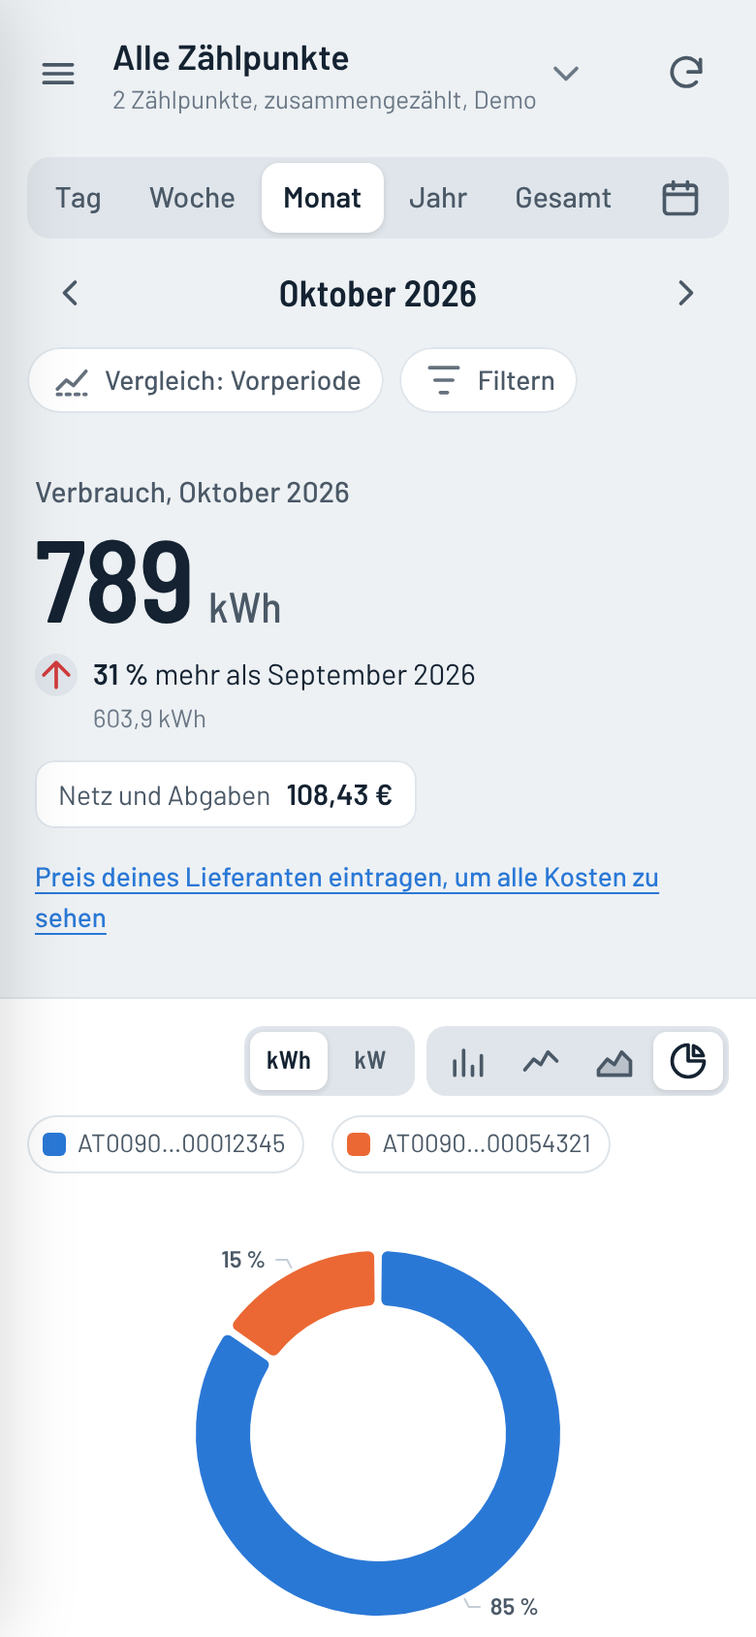
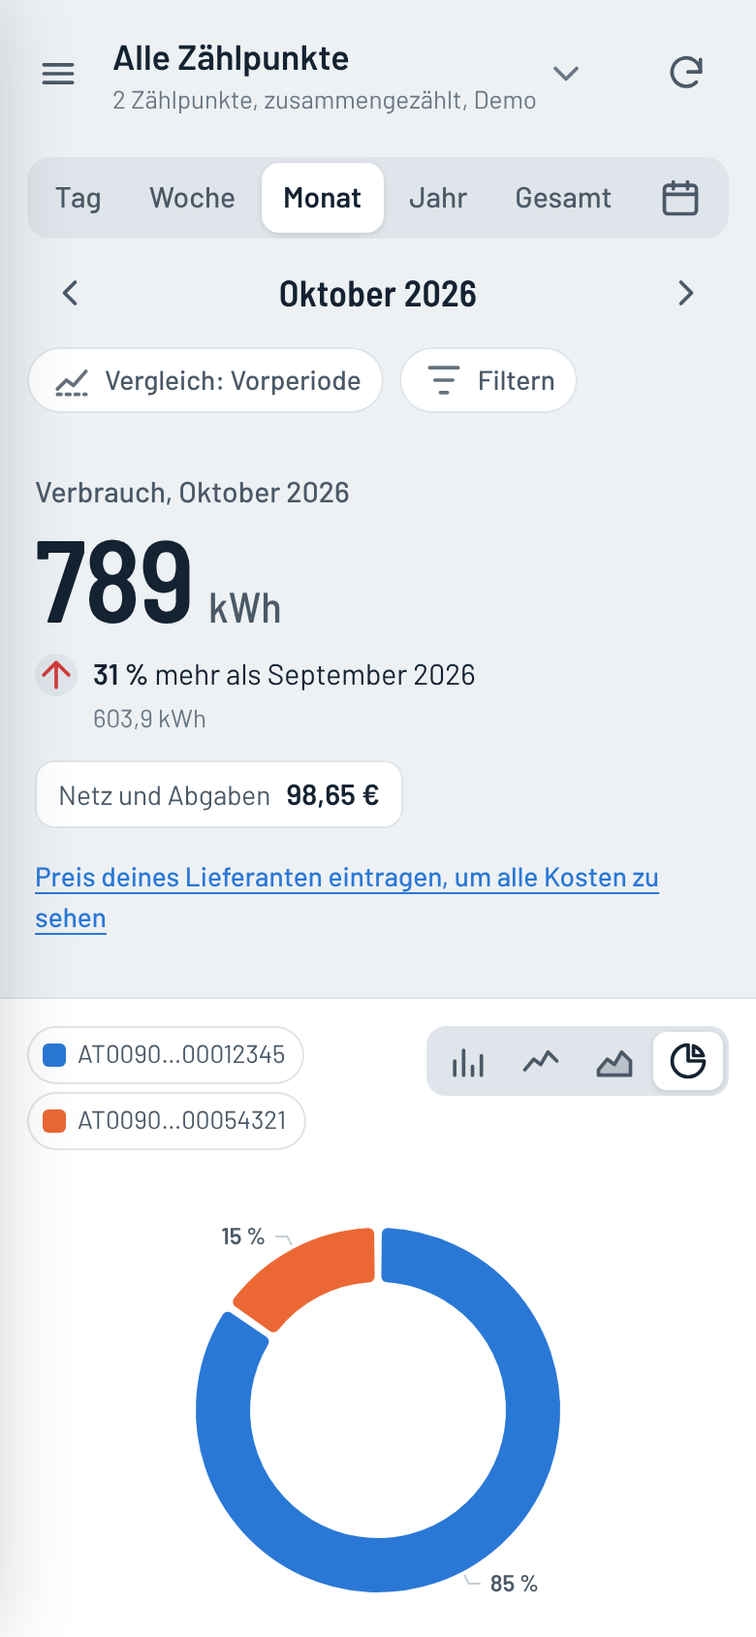
1.3.1: Leistung als eigenes, festes Diagramm unter dem Verbrauch
- Eigenes Panel „Leistung“ direkt unter dem Verbrauchsdiagramm, immer
  sichtbar (nur Bezug): Tag/Woche/Monat Viertelstunden in kW, Jahr/
  Gesamt Monatsspitzen (werden im Hintergrund nachgeladen);
  10-kW-Linie oben rechts ein- und ausblendbar; Umschalter kWh/kW
  entfernt
- Behoben: Kommen die Kundenportal-Daten erst nach der ersten
  Anzeige, wird die Übersicht neu gerechnet (Tarifklasse für Kosten
  und Leistungspreis, z. B. unterbrechbare Wärmepumpe)
- Tests, README (DE/EN), CHANGELOG, Bilder

Claude-Session: https://claude.ai/code/session_018mesTU6YUCg1gSmAnSRgMU

diff --git a/src/main.js b/src/main.js
@@ -246,6 +246,8 @@ function ensureKp({ force = false } = {}) {
     state.kpPromise = null;
     if (state.mps.length) { renderHeader(); }
     if (state.page !== 'usage') renderPage();
+    // Tarifklasse (Haushalt/unterbrechbar) bestimmt Kosten und Leistungspreis: Übersicht neu rechnen
+    else if (state.kpData && state.view) renderAll();
   });
   return state.kpPromise;
 }
@@ -352,7 +354,7 @@ function pageCtx() {
     meterColor, podFor, ensureKp, setupKp, logout, goto, openSettings, toast, renderPage,
     showUsage: (ids, period, opts = {}) => {
       if (ids) { state.selected = normalizeSelection(ids, state.mps); saveSelection(); }
-      if (opts.power != null) { state.settings.powerView = opts.power; saveSettings(state.settings); }
+      if (opts.power) state.scrollTo = 'powerPanel';
       if (period) state.period = period;
       if (!availableFlows().includes(state.flow)) state.flow = availableFlows()[0] || 'consumption';
       goto('usage');
@@ -445,7 +447,7 @@ function showWhatsNew() {
   const major = APP_VERSION.split('.').slice(0, 2).join('.');
   try { if (localStorage.getItem('nb.seenVersion') === major) return; localStorage.setItem('nb.seenVersion', major); } catch { return; }
   const items = [
-    ['gauge', 'Leistung: Über dem Diagramm auf „kW“ tippen. Dann siehst du die Viertelstunden, auch für einen ganzen Monat, mit einblendbarer 10-kW-Linie.'],
+    ['gauge', 'Leistung: Unter dem Verbrauch zeigt ein eigenes Diagramm die Viertelstunden in kW, auch für einen ganzen Monat, mit einblendbarer 10-kW-Linie.'],
     ['chart', 'Ab 2027 zählt fürs Netz die höchste Viertelstunde jedes Monats. Die Seite „Leistung“ zeigt deine Monatsspitzen und was du 2027 zahlst.'],
     ['euro', 'Kosten ab 2027 mit dem neuen Leistungspreis und dem Winter-Niedertarif (Entwurf der E-Control).'],
     ['menu', 'Alles im Menü über ☰ oben links.'],
@@ -587,8 +589,8 @@ async function refresh({ force = false } = {}) {
       flow: state.flow,
       period: state.period,
       compareMode: state.settings.compareMode,
-      // Monatsspitzen für den Leistungspreis ab 2027 und für die Leistungsansicht in Jahr/Gesamt
-      peaksFrom: state.flow === 'consumption' ? (state.settings.powerView ? new Date(2000, 0, 1) : POWER_TARIFF.since) : null,
+      // Monatsspitzen für den Leistungspreis ab 2027 (das Leistungsdiagramm lädt den Rest selbst nach)
+      peaksFrom: state.flow === 'consumption' ? POWER_TARIFF.since : null,
     }, { force });
     if (seq !== state.loadSeq) return;
     state.view = view;
@@ -650,11 +652,17 @@ function renderAll() {
   const d = derive();
   renderHero(d);
   renderMain(d);
+  renderPower(d);
   renderKpis(d);
   renderCosts(d);
   renderAnalysis(d);
   renderTable(d);
   renderFoot(d);
+  if (state.scrollTo) {
+    const target = $(state.scrollTo);
+    state.scrollTo = null;
+    if (target && !target.hidden) requestAnimationFrame(() => target.scrollIntoView({ block: 'start', behavior: 'smooth' }));
+  }
 }
 
 /* ---------- Kosten: Lieferant (eingegeben) + Netz Burgenland + Steuern und Abgaben */
@@ -901,31 +909,7 @@ function renderMainLegend(d, type, compareName) {
   el.hidden = !el.children.length;
 }
 
-/* ---------- Leistungsansicht: Viertelstunden in kW, Monatsspitzen, 10-kW-Grenze */
-const powerViewOn = () => !!state.settings.powerView && state.flow === 'consumption';
-
-function renderUnitSeg() {
-  const seg = $('unitSeg');
-  seg.textContent = '';
-  seg.hidden = state.flow !== 'consumption';
-  const on = powerViewOn();
-  for (const [id, label, title] of [['kwh', 'kWh', 'Verbrauch in kWh'], ['kw', 'kW', 'Leistung: höchste Viertelstunden in kW']]) {
-    const active = (id === 'kw') === on;
-    seg.append(h('button', {
-      type: 'button', class: active ? 'on' : '', 'aria-pressed': active ? 'true' : 'false', title,
-      onclick: () => setPowerView(id === 'kw'),
-    }, label));
-  }
-}
-
-function setPowerView(on) {
-  if (!!state.settings.powerView === on) return;
-  state.settings.powerView = on;
-  saveSettings(state.settings);
-  // Ohne Viertelstundenwerte braucht die Ansicht die Monatsspitzen des ganzen Zeitraums
-  if (on && state.view && !state.view.fine) refresh();
-  else if (state.view) renderMain(derive());
-}
+/* ---------- Leistung: eigenes Diagramm unter dem Verbrauch (Viertelstunden in kW, Monatsspitzen, 10-kW-Grenze) */
 
 /** Höchste Viertelstunde und Überschreitungen je Zählpunkt */
 function powerStats(d) {
@@ -953,29 +937,70 @@ function powerStats(d) {
   });
 }
 
-function renderPowerChart(d) {
+/** Ohne Viertelstundenwerte (Jahr, Gesamt): Monatsspitzen des ganzen Zeitraums nachladen */
+async function loadPowerPeaks(view) {
+  if (view.peaksLoading) return;
+  view.peaksLoading = true;
+  try {
+    const now = new Date();
+    const to = view.period.end < now ? view.period.end : now;
+    const all = await Promise.all(view.perMp.map((x) => state.store.monthlyPeaks(x.mp, 'consumption', view.period.start, to).catch(() => null)));
+    if (state.view !== view) return;
+    view.perMp.forEach((x, i) => { if (all[i]) x.monthPeaks = all[i]; });
+    view.peaksFull = true;
+    renderPower(derive());
+  } finally {
+    view.peaksLoading = false;
+  }
+}
+
+function renderPower(d) {
+  const panel = $('powerPanel');
+  const show = state.flow === 'consumption' && d.per.length > 0;
+  panel.hidden = !show;
+  if (!show) return;
   const { v, per } = d;
+  const limit = POWER_TARIFF.limitKw;
+  const lineOn = state.settings.powerLimit !== false;
+  $('powerSub').textContent = v.fine ? 'Mittlere Leistung je Viertelstunde, je Zählpunkt' : 'Höchste Viertelstunde je Monat, je Zählpunkt';
+
+  const tools = $('powerTools');
+  tools.textContent = '';
+  tools.append(h('button', {
+    type: 'button', class: 'chip chip--line' + (lineOn ? ' on' : ''), 'aria-pressed': lineOn ? 'true' : 'false',
+    title: lineOn ? `${limit}-kW-Linie ausblenden` : `${limit}-kW-Linie einblenden`,
+    onclick: () => { state.settings.powerLimit = !lineOn; saveSettings(state.settings); renderPower(derive()); },
+  }, h('span', { class: 'chip-line' }), `${limit} kW`));
+
+  const legend = $('powerLegend');
+  legend.textContent = '';
+  if (per.length > 1) legend.append(...per.map((x) => h('span', { class: 'lg' }, h('span', { class: `lg-key ${v.fine ? 'lg-key--line' : 'lg-key--bar'}`, style: `background:${x.color}` }), x.name)));
+  legend.hidden = per.length < 2;
+
+  const chartEl = $('powerChart');
+  const box = $('powerBox');
+  if (!v.fine && !v.peaksFull) {
+    loadPowerPeaks(v);
+    charts.render(chartEl, { series: [] });
+    box.textContent = '';
+    box.append(h('p', { class: 'hint' }, h('span', { class: 'spinner', 'aria-hidden': 'true' }), ' Lade Monatsspitzen …'));
+    return;
+  }
+
   const T = charts.tokens();
-  const chartEl = $('mainChart');
-  chartEl.classList.remove('chart--donut');
-  $('splitBox').hidden = true;
-  const limit = state.settings.powerLimit === false ? null : POWER_TARIFF.limitKw;
   let cfg;
   if (v.fine) {
     const axis = bucketAxis(v.period, 'quarter');
     const series = per.map((x) => ({ name: x.name, color: x.color, data: seriesOnAxis(x.cur, axis, 'quarter').map((p) => ({ v: p.v == null ? null : p.v * 4, s: p.s })) }));
-    cfg = { bucket: 'quarter', axis, days: daysBetween(v.period.start, v.period.end), series, limit };
-    chartEl.classList.add('chart--tall');
+    cfg = { bucket: 'quarter', axis, days: daysBetween(v.period.start, v.period.end), series, limit: lineOn ? limit : null };
   } else {
     let axis = bucketAxis(v.period, 'month');
     const maps = per.map((x) => new Map((x.monthPeaks || []).map((m) => [m.start.getTime(), m])));
     const first = axis.findIndex((m) => maps.some((mp) => mp.get(m.getTime()) && mp.get(m.getTime()).kw != null));
     if (first > 0) axis = axis.slice(first);
     const series = per.map((x, i) => ({ name: x.name, color: x.color, data: axis.map((m) => { const e = maps[i].get(m.getTime()); return { v: e ? e.kw : null, t: e ? e.t : null }; }) }));
-    cfg = { bucket: 'month', axis, days: daysBetween(v.period.start, v.period.end), series, limit };
-    chartEl.classList.remove('chart--tall');
+    cfg = { bucket: 'month', axis, days: daysBetween(v.period.start, v.period.end), series, limit: lineOn ? limit : null };
   }
-  renderMainLegend(d, v.fine ? 'line' : 'bar', null);
   charts.render(chartEl, charts.powerOption(T, cfg));
   renderPowerBox(d);
 }
@@ -984,21 +1009,12 @@ function renderPowerBox(d) {
   const box = $('powerBox');
   box.textContent = '';
   const limit = POWER_TARIFF.limitKw;
-  const on = state.settings.powerLimit !== false;
   const lp = GRID[2027].nm.lpKw;
   const gross = (x) => x * 1.2;
-  const st = powerStats(d);
-  const unit = d.v.fine ? 'Viertelstunden' : 'Monaten';
-  box.append(h('div', { class: 'power-tools' },
-    h('button', {
-      type: 'button', class: 'chip' + (on ? ' on' : ''), 'aria-pressed': on ? 'true' : 'false',
-      onclick: () => { state.settings.powerLimit = !on; saveSettings(state.settings); renderMain(derive()); },
-    }, h('span', { class: 'chip-line' }), `${limit}-kW-Grenze`),
-    h('button', { type: 'button', class: 'link-btn', onclick: () => goto('power') }, icon('gauge'), 'Leistung und Kosten ab 2027')));
   const list = h('ul', { class: 'power-list' });
-  for (const s of st) {
+  for (const s of powerStats(d)) {
     const name = d.per.length > 1 ? h('b', { text: `${s.x.name}: ` }) : null;
-    if (!s.best) { list.append(h('li', {}, name, 'keine Viertelstundenwerte')); continue; }
+    if (!s.best) { list.append(h('li', {}, h('span', {}, name, 'keine Viertelstundenwerte'))); continue; }
     const when = d.v.fine ? `am ${dateNum(s.best.t)} um ${time(s.best.t)} Uhr` : s.best.t ? `am ${dateNum(s.best.t)}` : '';
     const overText = s.over
       ? `${d.v.fine ? `${num(s.over, 0)} Viertelstunde${s.over === 1 ? '' : 'n'}` : `${num(s.over, 0)} von ${num(s.units, 0)} Monaten`} über ${limit} kW.`
@@ -1009,9 +1025,9 @@ function renderPowerBox(d) {
         s.interruptible ? ' Unterbrechbar: laut Entwurf ohne Leistungspreis.' : '')));
   }
   box.append(list,
-    h('p', { class: 'note', text: `Ab 2027 zählt fürs Netz auch die höchste Viertelstunde jedes Monats, je Zählpunkt: bis ${limit} kW ${euro(gross(lp.low))}, darüber ${euro(gross(lp.high))} je kW und Monat (brutto, ${POWER_TARIFF.status}). Gezeigt: mittlere Leistung je Viertelstunde${d.v.fine ? '' : ', je Monat die höchste'}.` }));
+    h('p', { class: 'note', text: `Ab 2027 zählt fürs Netz auch die höchste Viertelstunde jedes Monats, je Zählpunkt: bis ${limit} kW ${euro(gross(lp.low))}, darüber ${euro(gross(lp.high))} je kW und Monat (brutto, ${POWER_TARIFF.status}).` }),
+    h('button', { type: 'button', class: 'link-btn', onclick: () => goto('power') }, icon('gauge'), 'Monatsspitzen und Kosten ab 2027'));
   fillIcons(box);
-  box.hidden = false;
 }
 
 function renderMain(d) {
@@ -1020,17 +1036,11 @@ function renderMain(d) {
   const bucket = v.bucket;
   const type = chartTypeFor(d);
   renderTypeSeg(d, type);
-  renderUnitSeg();
-  const power = powerViewOn();
-  $('typeSeg').hidden = power;
-  $('powerBox').hidden = !power;
   const split = $('splitBox');
   split.textContent = '';
   const chartEl = $('mainChart');
 
-  if (power) {
-    renderPowerChart(d);
-  } else if (type === 'pie') {
+  if (type === 'pie') {
     renderMainLegend(d, type, null);
     chartEl.classList.remove('chart--tall');
     chartEl.classList.add('chart--donut');
@@ -1063,7 +1073,7 @@ function renderMain(d) {
   if (estCount) {
     const unit = d.res === 'original' ? 'Viertelstunden' : d.res === 'monthly' ? 'Monate' : 'Tage';
     const parts = Object.entries(st).map(([k, n]) => `${STATUS_LABEL[k] || k}: ${num(n, 0)} ${unit}`).join(', ');
-    notes.push(`${parts}${!power && type === 'bar' && (bucket === 'day' || bucket === 'quarter') ? ' (blasser dargestellt)' : ''}.`);
+    notes.push(`${parts}${type === 'bar' && (bucket === 'day' || bucket === 'quarter') ? ' (blasser dargestellt)' : ''}.`);
   }
   if (hourFilterActive(state.filters) && !v.fine) notes.push('Der Tageszeit-Filter braucht Viertelstundenwerte und wirkt in dieser Ansicht nicht.');
   if (filtersActive(state.filters) && v.res === 'monthly') notes.push('In der Gesamtansicht liegen nur Monatswerte vor, Filter wirken hier nicht.');
@@ -1680,7 +1690,8 @@ async function boot() {
     if (PARAMS.get('remind')) state.settings.contract = { supplier: 'Musterstrom GmbH', kind: 'rabatt', end: PARAMS.get('remind'), days: 30 };
     if (PARAMS.get('chart')) state.settings.chartTypes = { quarter: PARAMS.get('chart'), day: PARAMS.get('chart'), month: PARAMS.get('chart'), year: PARAMS.get('chart') };
     if (PARAMS.get('split')) state.settings.splitBy = PARAMS.get('split');
-    if (PARAMS.has('power')) { state.settings.powerView = PARAMS.get('power') !== '0'; if (PARAMS.get('power') === 'noline') state.settings.powerLimit = false; }
+    if (PARAMS.get('power') === 'noline') state.settings.powerLimit = false;
+    if (PARAMS.get('power') === 'scroll') state.scrollTo = 'powerPanel';
     if (PARAMS.get('sel')) localStorage.setItem('nb.selection', JSON.stringify(PARAMS.get('sel') === 'all' ? 'all' : PARAMS.get('sel').split(',')));
     applyTheme();
     await doLogin('demo', 'demo', { demo: true });

diff --git a/www-src/app.css b/www-src/app.css
@@ -580,10 +580,12 @@ body::after {
   .content > .hero { grid-column: 1; grid-row: 2; padding-top: 22px; }
   .content > .kpis { grid-column: 1; grid-row: 3; grid-template-columns: 1fr 1fr; }
   .content > .panel--main { grid-column: 2; grid-row: 2 / span 2; margin-left: 0; }
-  .content > .panel--costs { grid-column: 1 / -1; grid-row: 4; }
-  .content > .analysis { grid-column: 1 / -1; grid-row: 5; display: grid; grid-template-columns: repeat(2, minmax(0, 1fr)); }
-  .content > .panel--table { grid-column: 1 / -1; grid-row: 6; }
-  .content > .foot { grid-column: 1 / -1; grid-row: 7; }
+  .content > .panel--power { grid-column: 1 / -1; grid-row: 4; }
+  .content > .panel--costs { grid-column: 1 / -1; grid-row: 5; }
+  .content > .analysis { grid-column: 1 / -1; grid-row: 6; display: grid; grid-template-columns: repeat(2, minmax(0, 1fr)); }
+  .content > .panel--table { grid-column: 1 / -1; grid-row: 7; }
+  .content > .foot { grid-column: 1 / -1; grid-row: 8; }
+  .chart--power { height: 300px; }
   .analysis > .panel:last-child:nth-child(odd) { grid-column: 1 / -1; }
   .analysis > .panel:nth-child(odd):not(:last-child) { margin-right: 0; }
   .kpi:nth-child(3n) { border-right: 1px solid var(--line); }
@@ -615,10 +617,11 @@ body::after {
     .content > .hero { grid-column: 1; grid-row: 2; }
     .content > .kpis { grid-column: 1; grid-row: 3; }
     .content > .panel--main { grid-column: 2; grid-row: 2 / span 2; margin-left: 0; margin-right: 0; }
-    .content > .panel--costs { grid-column: 1 / -1; grid-row: 4; }
-    .content > .analysis { grid-column: 1 / -1; grid-row: 5; }
-    .content > .panel--table { grid-column: 1 / -1; grid-row: 6; }
-    .content > .foot { grid-column: 1 / -1; grid-row: 7; }
+    .content > .panel--power { grid-column: 1 / -1; grid-row: 4; }
+    .content > .panel--costs { grid-column: 1 / -1; grid-row: 5; }
+    .content > .analysis { grid-column: 1 / -1; grid-row: 6; }
+    .content > .panel--table { grid-column: 1 / -1; grid-row: 7; }
+    .content > .foot { grid-column: 1 / -1; grid-row: 8; }
     .chart--main, .chart--main.chart--tall { height: calc(100vh - 150px); min-height: 220px; }
     .controls { display: grid; grid-template-columns: minmax(0, 1.2fr) minmax(0, 1fr); column-gap: 12px; align-items: center; }
     .controls .chips { grid-column: 1 / -1; }
@@ -697,15 +700,12 @@ body::after {
 /* ------------------------------------------------------------ 1.3: Leistung */
 .tool-segs { flex: 0 0 auto; display: flex; gap: 6px; margin-left: auto; align-items: center; }
 .tool-segs .type-seg { margin-left: 0; }
-.tool-segs .type-seg[hidden] { display: none; }
-.unit-seg button { width: auto; min-width: 40px; padding: 0 8px; font: 600 13px/1 var(--font-num); letter-spacing: 0.01em; }
-@media (max-width: 420px) {
-  .panel--main .panel-tools { flex-wrap: wrap; }
-  .panel--main .panel-tools .legend { flex-basis: 100%; order: 2; min-height: 0; }
-  .panel--main .panel-tools .legend:empty, .panel--main .panel-tools .legend[hidden] { display: none !important; }
-  .panel--main .tool-segs { order: 1; margin-left: auto; }
-}
-.power-box { display: grid; gap: 6px; margin-top: 8px; }
+.chart--power { height: 250px; margin-top: 2px; }
+.panel--power { scroll-margin-top: calc(var(--sat) + 160px); }
+.legend--static { margin-top: 6px; }
+.legend--static .lg { cursor: default; }
+.chip--line { height: 32px; flex: 0 0 auto; }
+.power-box { display: grid; gap: 6px; margin-top: 8px; justify-items: start; }
 .power-tools { display: flex; flex-wrap: wrap; align-items: center; justify-content: space-between; gap: 6px 12px; }
 .power-tools .chip { height: 32px; }
 .chip.on { color: var(--ink); box-shadow: inset 0 0 0 1.5px var(--ink); }

diff --git a/www-src/index.html b/www-src/index.html
@@ -116,14 +116,25 @@
               <div class="panel-tools">
                 <div class="legend" id="mainLegend"></div>
                 <div class="tool-segs">
-                  <div class="type-seg unit-seg" id="unitSeg" role="group" aria-label="Anzeigen als"></div>
                   <div class="type-seg" id="typeSeg" role="group" aria-label="Diagrammart"></div>
                 </div>
               </div>
               <div class="chart chart--main" id="mainChart"></div>
-              <div id="powerBox" class="power-box" hidden></div>
               <div id="splitBox" class="split" hidden></div>
               <p class="note" id="mainNote" hidden></p>
+            </section>
+
+            <section class="panel panel--power" id="powerPanel" aria-labelledby="powerTitle" hidden>
+              <div class="panel-head">
+                <div>
+                  <h2 id="powerTitle">Leistung</h2>
+                  <p class="panel-sub" id="powerSub"></p>
+                </div>
+                <div id="powerTools"></div>
+              </div>
+              <div class="legend legend--static" id="powerLegend" hidden></div>
+              <div class="chart chart--power" id="powerChart"></div>
+              <div id="powerBox" class="power-box"></div>
             </section>
 
             <section class="kpis" id="kpis" aria-label="Kennzahlen"></section>

diff --git a/README.md b/README.md
@@ -80,8 +80,8 @@ Alle Bilder zeigen den Demo-Modus mit erfundenen Beispieldaten.
 
 | | |
 |---|---|
-| **kWh oder kW** | Über dem Diagramm umschalten. In kW zeigt Netzblick die mittlere Leistung jeder Viertelstunde, auch für einen ganzen Monat. Im Jahr und Gesamt die höchste Viertelstunde je Monat. |
-| **10-kW-Linie** | Ein- und ausblendbar. Ab 2027 kostet der Anteil der Monatsspitze über 10 kW mehr. Die höchste Spitze ist markiert, darunter steht je Zählpunkt, wie oft sie über 10 kW lag. |
+| **Leistungsdiagramm** | Eigenes Diagramm direkt unter dem Verbrauch: mittlere Leistung jeder Viertelstunde in kW, auch für einen ganzen Monat. Im Jahr und Gesamt die höchste Viertelstunde je Monat. |
+| **10-kW-Linie** | Oben rechts im Diagramm ein- und ausblendbar. Ab 2027 kostet der Anteil der Monatsspitze über 10 kW mehr. Die höchste Spitze ist markiert, darunter steht je Zählpunkt, wie oft sie über 10 kW lag. |
 | **Seite „Leistung“** | Monatsspitzen der letzten 13 Monate je Zählpunkt, Monate über 10 kW, Spitze im laufenden Monat, Leistungspreis pro Jahr, Netzkosten 2026 gegen ab 2027, Tipps. |
 | **Grundlage** | Entwurf der Tarifverordnung 2027 der E-Control (29.10.2026), Netzbereich Burgenland. Netz Burgenland kündigt die Umstellung für Jänner 2027 an. |
 
@@ -125,7 +125,7 @@ Noch keinen Zugang? Registrieren kannst du dich unter [portal.netzburgenland.at]
 - **Zeitraum:** Leiste oben. Das Kalendersymbol öffnet einen eigenen Zeitraum mit Schnellwahl.
 - **Blättern:** Pfeile neben dem Datum oder auf der Summe wischen. Ein Tipp aufs Datum öffnet die Datumsauswahl.
 - **Zählpunkte:** Tipp auf den Namen oben (mehrere ankreuzen oder „nur dieser“), oder in der Diagrammlegende antippen.
-- **kWh oder kW:** Schalter rechts über dem Diagramm. In kW gibt es die Viertelstunden und unter dem Diagramm den Schalter für die 10-kW-Linie.
+- **Leistung:** eigenes Diagramm unter dem Verbrauch; die 10-kW-Linie schaltest du oben rechts darin ein und aus.
 - **Diagrammart:** Symbole rechts über dem Diagramm; die Wahl wird je Auflösung gemerkt.
 - **Vergleich und Filter:** Chips unter dem Datum. Aktive Filter erscheinen dunkel und lassen sich mit ✕ entfernen.
 - **Strompreis:** Preis des Lieferanten (brutto), Erinnerung an Rabatt- oder Bindungsende, Jahreskosten, Netzpreise.
@@ -276,7 +276,7 @@ flowchart LR
 Bei jedem Push laufen auf GitHub drei Stufen ([CI](.github/workflows/ci.yml)):
 
 1. **Unit-Tests** (`test/unit/`, 81 Fälle): Zeiträume inkl. Zeitumstellung, Zahlenformate, API-Clients mit Fehlerfällen und Neuanmeldung, Datenmodell und Filter, Zwischenspeicher, Kundenportal und Energiegemeinschaften, Abrechnungsjahr inkl. Zwischenabrechnung, Kostenmodell (geprüft gegen die Vergleichsgrafik von Netz Burgenland), Leistungspreis 2027 mit Monatsspitzen und Winter-Niedertarif, Erinnerung und Kalenderdatei, Versionsnummern.
-2. **Oberflächentest** (`test/e2e/smoke.mjs`, 24 Szenarien): alle Zeiträume, Dunkelmodus, Filter, Mehrfachauswahl, Diagrammarten, Leistungsansicht mit 10-kW-Linie, Kosten und Erinnerung, alle Seiten, Tablet, Querformat, hohe Statusleiste, Abmelden. Prüft auf Konsolenfehler, leere Ansichten und kaputte Texte.
+2. **Oberflächentest** (`test/e2e/smoke.mjs`, 24 Szenarien): alle Zeiträume, Dunkelmodus, Filter, Mehrfachauswahl, Diagrammarten, Leistungsdiagramm mit 10-kW-Linie, Kosten und Erinnerung, alle Seiten, Tablet, Querformat, hohe Statusleiste, Abmelden. Prüft auf Konsolenfehler, leere Ansichten und kaputte Texte.
 3. **Android-Build**: baut die Debug-APK.
 
 ## Releases und Play Store

diff --git a/README.en.md b/README.en.md
@@ -82,8 +82,8 @@ All images show demo mode with made-up sample data.
 
 | | |
 |---|---|
-| **kWh or kW** | Switch above the chart. In kW, Netzblick shows the average power of every quarter hour, even for a whole month. For year and all time it shows the highest quarter hour per month. |
-| **10 kW line** | Can be shown or hidden. From 2027, the part of the monthly peak above 10 kW costs more. The highest peak is marked, and below the chart each meter shows how often it went above 10 kW. |
+| **Power chart** | Its own chart right below consumption: average power of every quarter hour in kW, even for a whole month. For year and all time the highest quarter hour per month. |
+| **10 kW line** | Shown or hidden at the top right of the chart. From 2027, the part of the monthly peak above 10 kW costs more. The highest peak is marked, and below the chart each meter shows how often it went above 10 kW. |
 | **"Leistung" page** | Monthly peaks of the last 13 months per meter, months above 10 kW, the peak so far this month, yearly power price, grid costs 2026 vs. from 2027, tips. |
 | **Basis** | E-Control's draft tariff regulation 2027 (29 Oct 2026), Burgenland grid area. Netz Burgenland has announced the switch for January 2027. |
 
@@ -127,7 +127,7 @@ No account yet? Register at [portal.netzburgenland.at](https://portal.netzburgen
 - **Period:** the bar at the top. The calendar icon opens a custom period with presets.
 - **Browse:** arrows next to the date, or swipe across the total. Tap the date to pick one.
 - **Meters:** tap the name at the top (tick several or "nur dieser"), or tap them in the chart legend.
-- **kWh or kW:** switch above the chart on the right. In kW you get the quarter hours, and below the chart the toggle for the 10 kW line.
+- **Power:** its own chart below consumption; toggle the 10 kW line at its top right.
 - **Chart type:** icons above the chart; the choice is remembered per resolution.
 - **Comparison and filters:** chips below the date. Active filters turn dark and can be removed with ✕.
 - **Strompreis:** supplier price (incl. VAT), reminder, yearly cost, grid prices.
@@ -273,7 +273,7 @@ Every push runs three stages on GitHub ([CI](.github/workflows/ci.yml)):
    - power price 2027 with monthly peaks and winter low tariff
    - reminder and calendar file, version numbers
 2. **UI test** (`test/e2e/smoke.mjs`, 24 scenarios):
-   - all periods, dark mode, filters, multi-select, chart types, power view with 10 kW line
+   - all periods, dark mode, filters, multi-select, chart types, power chart with 10 kW line
    - costs and reminder, every page
    - tablet, landscape, tall status bar, sign-out
    - checks for console errors, empty views and broken text

diff --git a/CHANGELOG.md b/CHANGELOG.md
@@ -5,6 +5,14 @@ Versionsnummern nach [Semantic Versioning](https://semver.org/lang/de/).
 
 ## [Unveröffentlicht]
 
+## [1.3.1] – 2026-11-18
+
+### Geändert
+- **Leistung als eigenes Diagramm** direkt unter dem Verbrauch, immer sichtbar. Der Umschalter kWh/kW entfällt. Tag, Woche und Monat zeigen die Viertelstunden in kW, Jahr und Gesamt die höchste Viertelstunde je Monat. Die 10-kW-Linie schaltest du oben rechts im Diagramm ein und aus.
+
+### Behoben
+- Kommen die Daten aus dem Kundenportal erst nach der ersten Anzeige, rechnet die Übersicht jetzt sofort neu. Vorher galt für einen unterbrechbaren Zählpunkt (z. B. Wärmepumpe) bis zum nächsten Zeitraumwechsel der Haushaltstarif.
+
 ## [1.3.0] – 2026-11-18
 
 ### Neu
